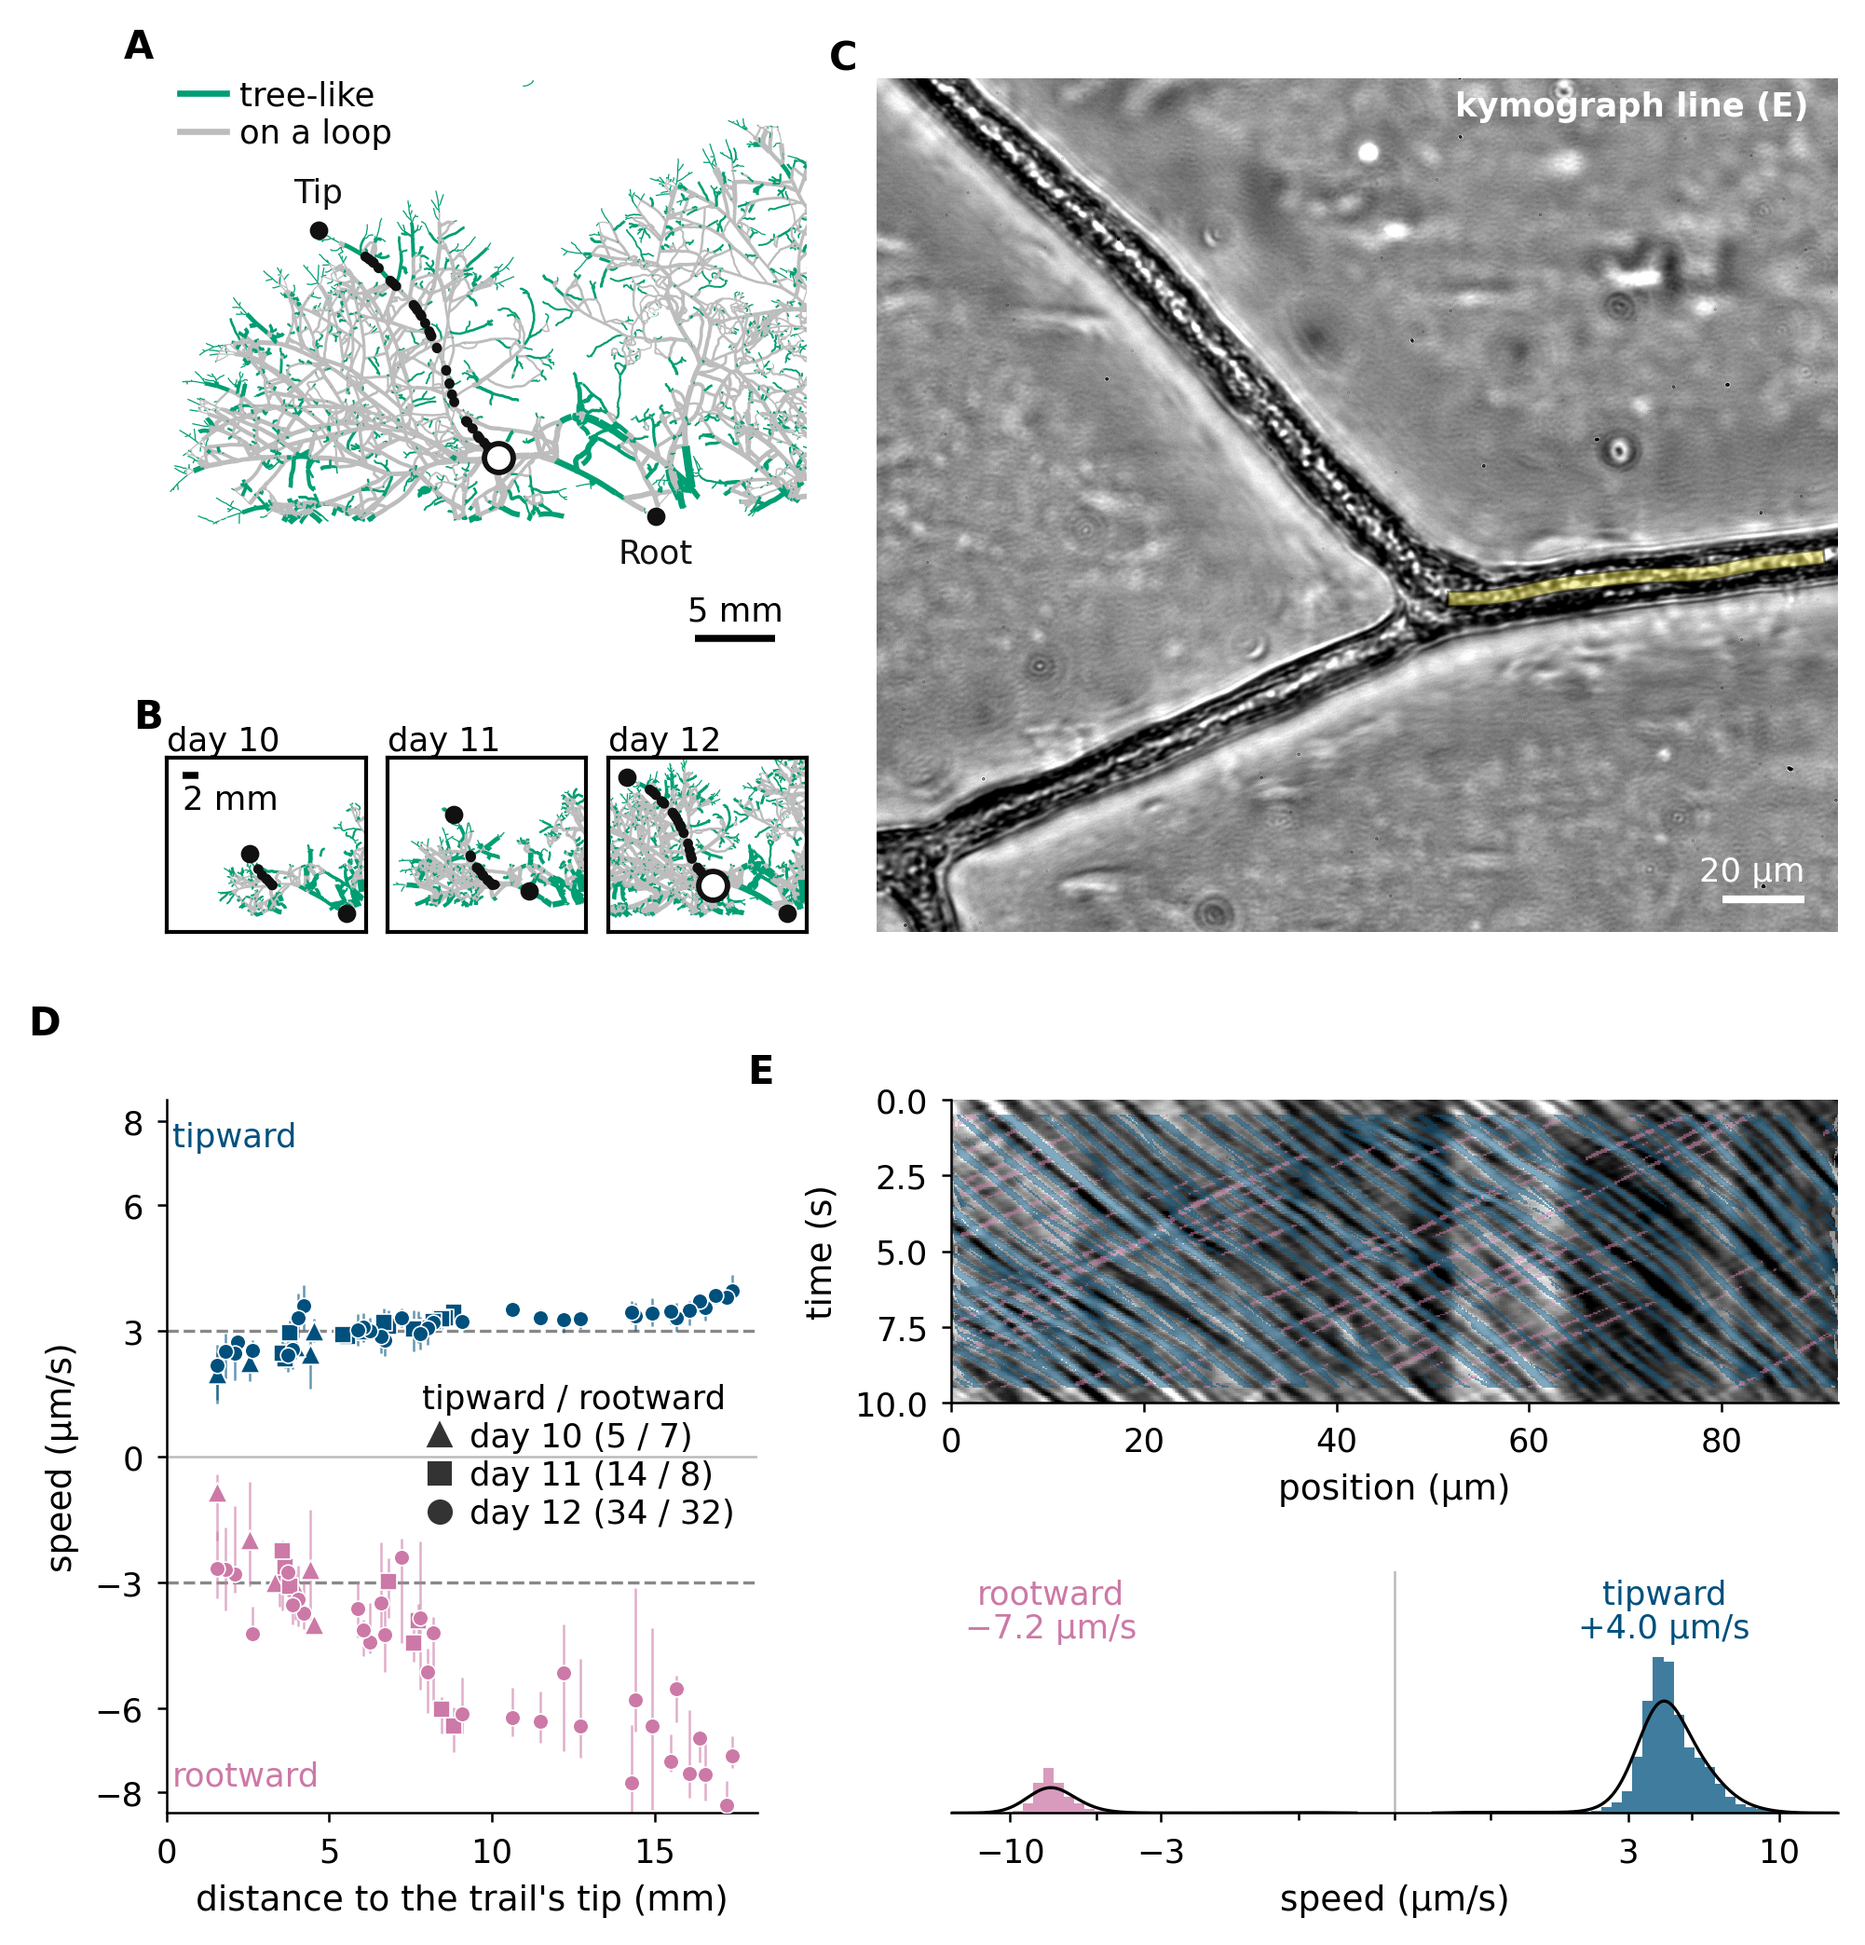
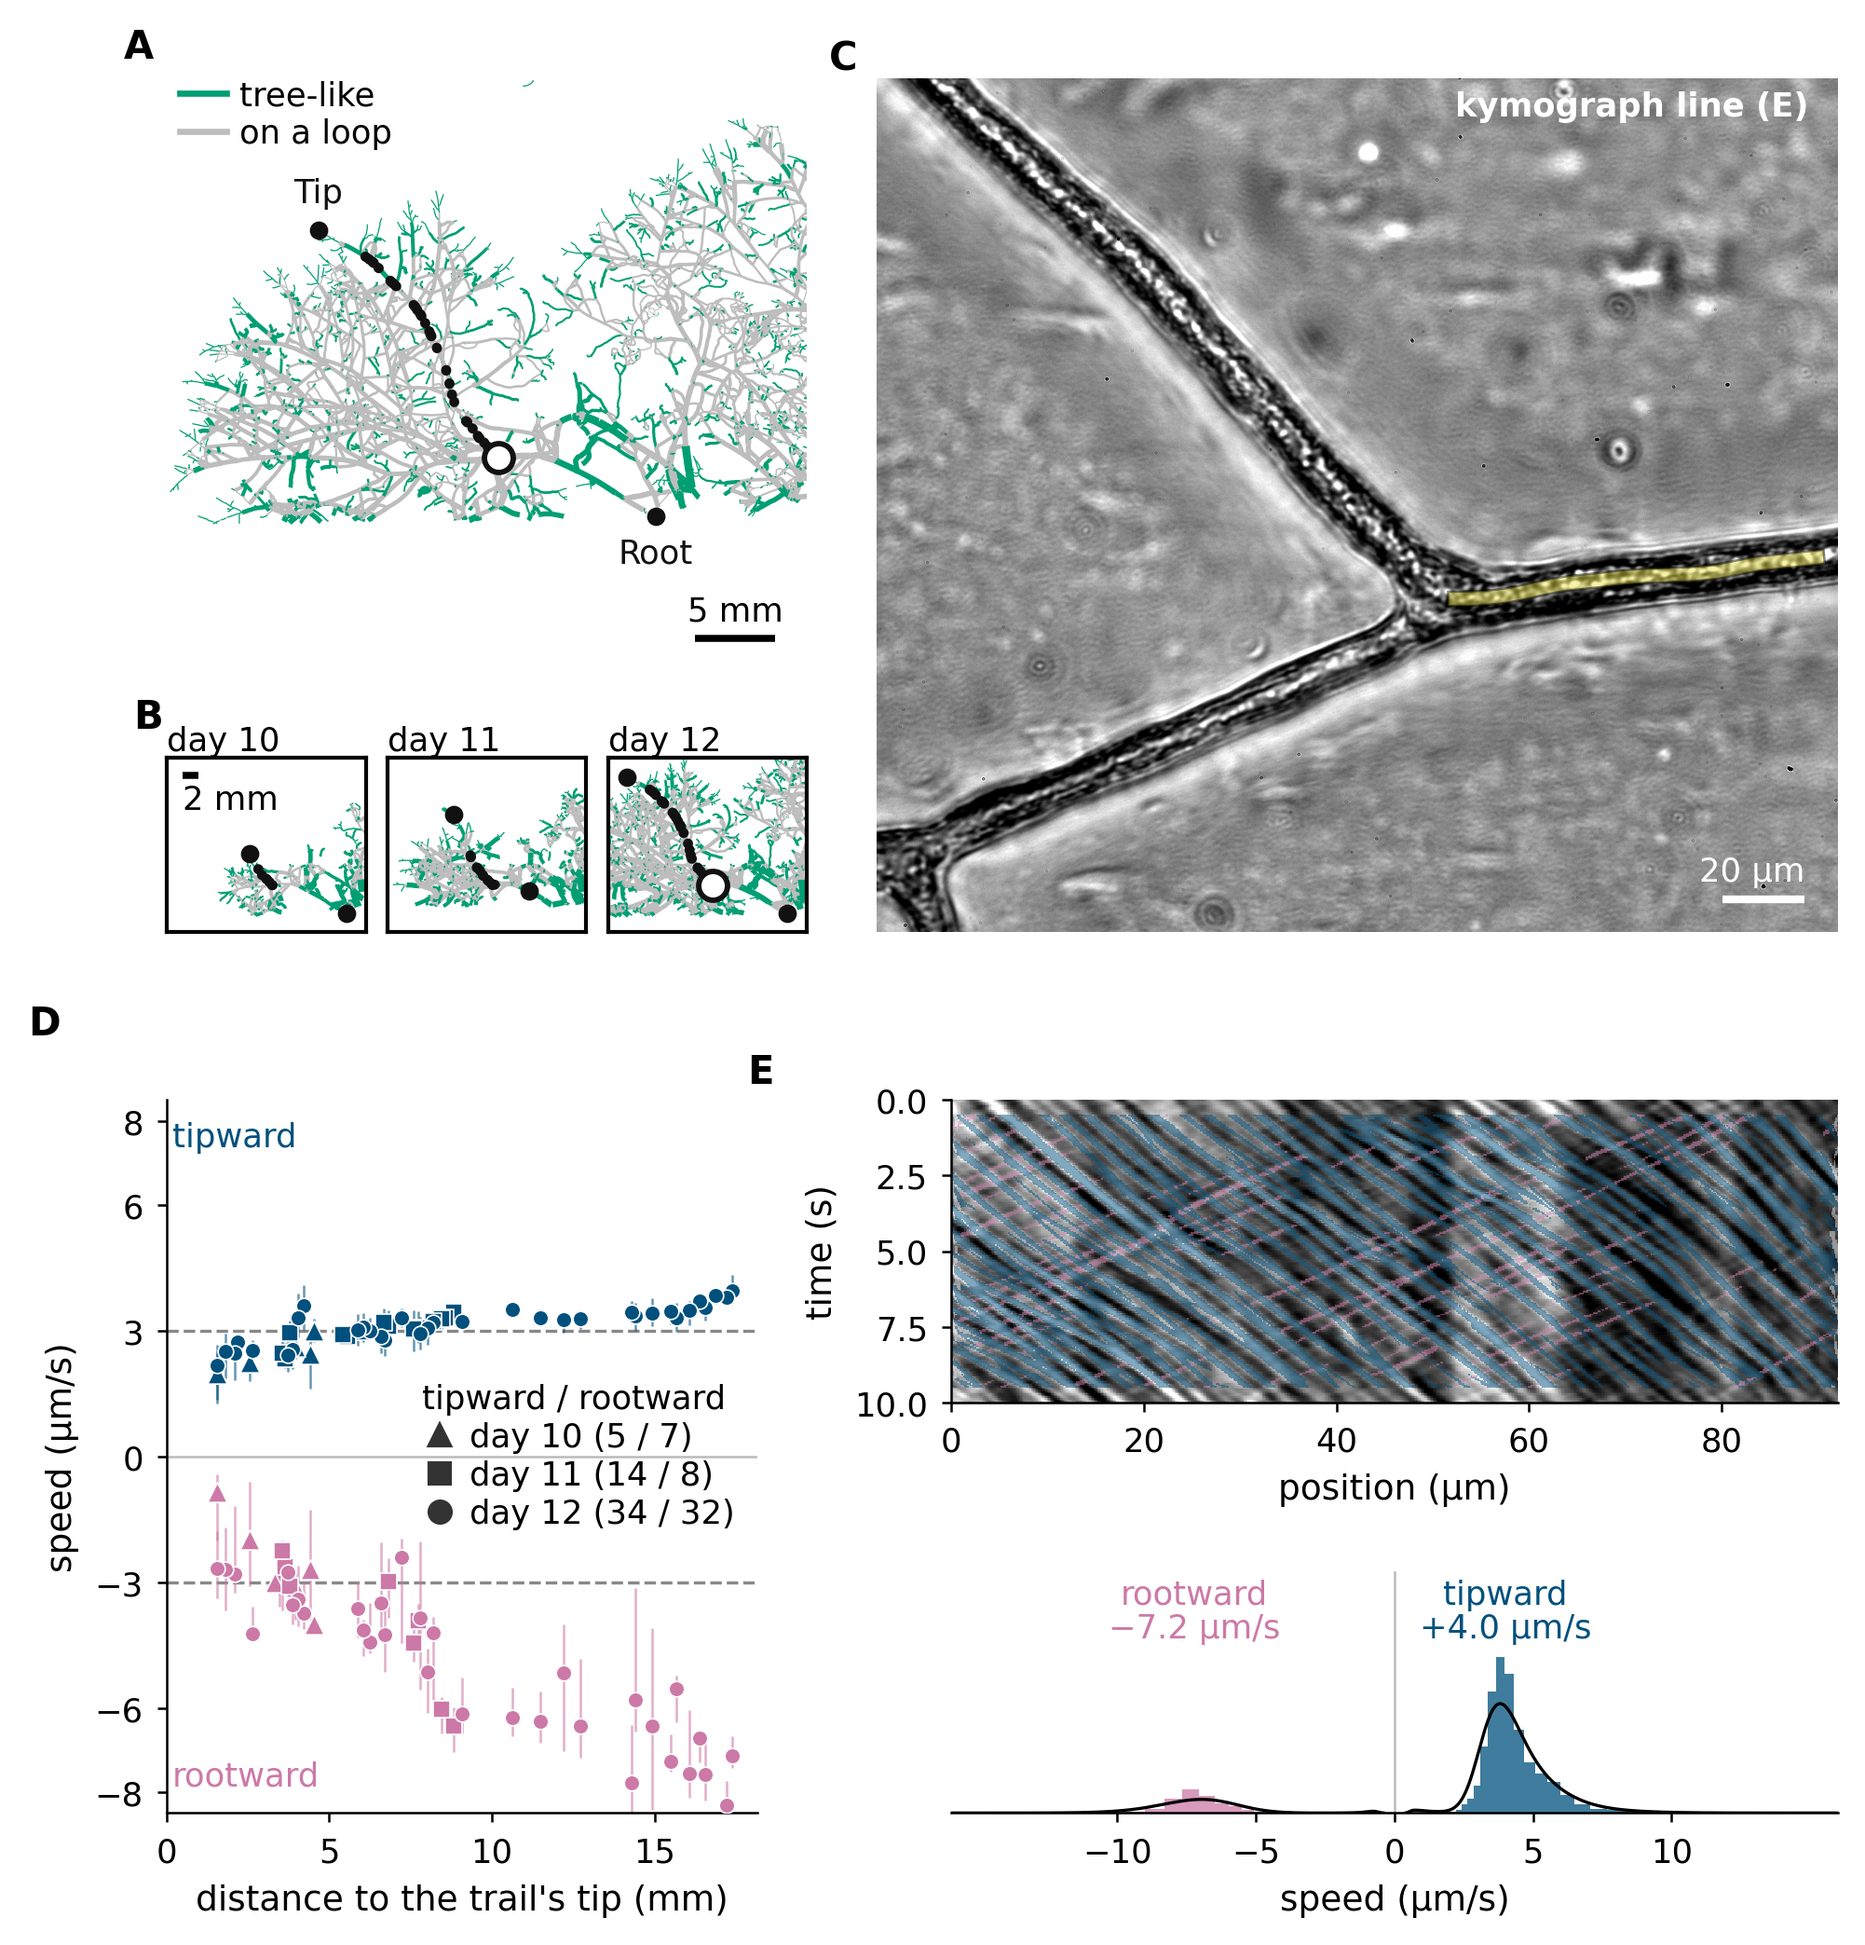
update figure 1

diff --git a/01_Article_MainText.tex b/01_Article_MainText.tex
@@ -79,10 +79,9 @@ From these data and findings, we construct a minimal model that explains the obs
 \namedsubsection{Asymmetric bidirectional speeds}{subsec:res_speeds}
 
 Fungal networks (\textit{Rhizophagus Irregularis}) grow through the extension of fungal tips away from the root of the host plant (\textit{Daucus Carota}, Methods [Make methods section], \cite{oyarte_galvez_travelling-wave_2025}).
-% NOTE (3 Nov, reviewer #74 Filipe): name the fungus and host here: Rhizophagus irregularis on transformed carrot root (as in oyarte_galvez_travelling-wave_2025 Methods; this paper: strains C2 and A5, Ri T-DNA transformed Daucus carota root-organ culture, clone DC1).
 Over time, these elongated hyphae develop into a branched mycelial structure.
 The network's topological context therefore varies along the length of a hypha.
-Close to a growing tip, the network is more tree-like: 40\% of the edges within 1~mm of a tip are bridges, that is, not part of any loop, versus 10--14\% of the edges further than 2~mm from a tip (SI Fig.~\ref{fig:tree_like_share}).
+Close to a growing tip, the network is more tree-like: 40\% of the edges within 1~mm of a tip are bridges, that is, not part of any loop, versus 10--14\% of the edges further than 2~mm from a tip (Fig.~\ref{fig:hyphal_profiling}A; SI Fig.~\ref{fig:tree_like_share}).
 Moving away from the tip, more growing hyphae depend on the same runner hypha, and anastomosis (fusion between a hyphal tip and a hyphal segment) creates loops, which give many alternative paths from the tip towards the root~\cite{oyarte_galvez_travelling-wave_2025}.
 
 \begin{figure}
@@ -101,7 +100,7 @@ Marker shape gives the day, with the number of videos tipward/rootward in the ke
 \end{figure}
 
 We asked how this change in topological context affected the speeds of the flows in the two directions along a hypha: towards the growing tip (tipward) and towards the root (rootward), as defined by the growth direction of the network.
-We imaged flows at high resolution in 731 bright-field videos along the hyphae of five colonies (SI Fig.~\ref{fig:video_positions}) and, mostly at the same positions, in 625 videos of Nile Red fluorescence; for the example network of Fig.~\ref{fig:hyphal_profiling}, the videos were taken over three consecutive days.
+We imaged flows at high resolution in 731 bright-field videos along the hyphae of five colonies (SI Fig.~\ref{fig:video_positions}) and, mostly at the same positions, in 625 videos of Nile Red fluorescence; for the example network of Fig.~\ref{fig:hyphal_profiling}A--C, the videos were taken over three consecutive days.
 We chose runner hyphae, the main routes to the root and the edges of high betweenness centrality~\cite{kirkley_betweenness_2018}, where the tipward and rootward flows could be distinguished by eye (SI, \nameref{subsec:si_video_selection}; SI Fig.~\ref{fig:bc_selection}). 
 
 In undisturbed hyphae (SI, \nameref{subsec:si_lid}), the two flows are superimposed in the video and move in straight lines at nearly constant speed, so that in a kymograph every moving particle leaves a straight diagonal streak, with no sign of random or back-and-forth movement, except near the tips (Fig.~\ref{fig:hyphal_profiling}E;\@SI Fig.~\ref{fig:kymograph_examples}).
@@ -140,7 +139,6 @@ We imaged these lipids with Nile Red fluorescent dye~\cite{bago_tracking_2002} a
 \caption{\textbf{Flows are driven by local elements, with limited whole-network influence.}
 \textbf{(A)} Osmotic shock: a drop of solute solution (~200 mOsm) placed on the substrate at the base of the network, a few centimeters behind the growing front, while a hypha near the growth edge is imaged.
 Speed divided by its mean before the steepest rise, tipward (blue) and rootward (pink): thin lines are single droplets, thick lines the median of the 6 solute droplets; the black dashed line is the median rootward speed of 3 medium-like control drops. Dotted line: onset of the response.
-Dotted line: onset of the response.
 \textbf{(B)} Root cut: the network is severed from the root along its whole bottom.
 Left: speed along a runner hypha against the distance to the tip, 5 min before (black), 5 min after (after 1, orange) and 30 min after (after 2, green) the cut.
 Positive speeds are tipward, negative rootward.
